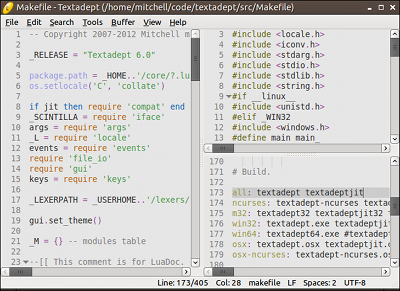
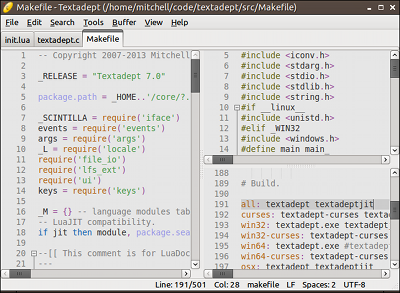
Added support for tabs.

Changed region(s): [[0.0, 0.0, 1.0, 0.9588], [0.39, 0.9278, 0.93, 0.9897], [0.93, 0.0, 0.96, 0.0309]]

diff --git a/src/textadept.c b/src/textadept.c
@@ -85,7 +85,7 @@ typedef GtkWidget Scintilla;
 static char *textadept_home;
 static Scintilla *focused_view, *dummy_view;
 #if GTK
-static GtkWidget *window, *menubar, *statusbar[2];
+static GtkWidget *window, *menubar, *tabbar, *statusbar[2];
 static GtkAccelGroup *accel;
 #if __APPLE__
 static GtkosxApplication *osxapp;
@@ -135,6 +135,7 @@ static lua_State *lua;
 static int quit;
 #endif
 static int initing, closing;
+static int show_tabs = TRUE, tab_sync;
 static int tVOID = 0, tINT = 1, tLENGTH = 2, /*tPOSITION = 3, tCOLOUR = 4,*/
            tBOOL = 5, tKEYMOD = 6, tSTRING = 7, tSTRINGRESULT = 8;
 static int lL_init(lua_State *, int, char **, int);
@@ -582,9 +583,7 @@ static int lce_focus(lua_State *L) {
   setCDKEntryValue(command_entry, command_text);
   char *clipboard = get_clipboard();
   GPasteBuffer = copyChar(clipboard); // set the CDK paste buffer
-  curs_set(1);
-  activateCDKEntry(command_entry, NULL);
-  curs_set(0);
+  curs_set(1), activateCDKEntry(command_entry, NULL), curs_set(0);
   // Set Scintilla clipboard with new CDK paste buffer if necessary.
   if (strcmp(clipboard, GPasteBuffer)) set_clipboard(GPasteBuffer);
   free(clipboard), free(GPasteBuffer), GPasteBuffer = NULL;
@@ -785,13 +784,30 @@ static void l_pushdoc(lua_State *L, sptr_t doc) {
 }
 
 /**
+ * Synchronizes the tabbar after switching between Scintilla views or documents.
+ */
+static void sync_tabbar() {
+#if GTK
+  lua_getfield(lua, LUA_REGISTRYINDEX, "ta_buffers");
+  l_pushdoc(lua, SS(focused_view, SCI_GETDOCPOINTER, 0, 0));
+  lua_gettable(lua, -2);
+  int i = lua_tointeger(lua, -1) - 1;
+  lua_pop(lua, 2); // buffers and index
+  GtkNotebook *tabs = GTK_NOTEBOOK(tabbar);
+  tab_sync = TRUE, gtk_notebook_set_current_page(tabs, i), tab_sync = FALSE;
+//#elif CURSES
+  // TODO: tabs
+#endif
+}
+
+/**
  * Change focus to the given Scintilla view.
  * Generates 'view_before_switch' and 'view_after_switch' events.
  * @param view The Scintilla view to focus.
  */
 static void goto_view(Scintilla *view) {
   if (!initing && !closing) lL_event(lua, "view_before_switch", -1);
-  l_setglobalview(lua, focused_view = view);
+  l_setglobalview(lua, focused_view = view), sync_tabbar();
   l_setglobaldoc(lua, SS(view, SCI_GETDOCPOINTER, 0, 0));
   if (!initing && !closing) lL_event(lua, "view_after_switch", -1);
 }
@@ -942,7 +958,10 @@ static int lui__index(lua_State *L) {
     lua_newtable(L);
     lua_pushinteger(L, width), lua_rawseti(L, -2, 1);
     lua_pushinteger(L, height), lua_rawseti(L, -2, 2);
-  } else lua_rawget(L, 1);
+  } else if (strcmp(key, "tabs") == 0)
+    lua_pushboolean(L, show_tabs);
+  else
+    lua_rawget(L, 1);
   return 1;
 }
 
@@ -1006,6 +1025,14 @@ static int lui__newindex(lua_State *L) {
                   "{ width, height } table expected");
     int w = l_rawgetiint(L, 3, 1), h = l_rawgetiint(L, 3, 2);
     if (w > 0 && h > 0) gtk_window_resize(GTK_WINDOW(window), w, h);
+#endif
+  } else if (strcmp(key, "tabs") == 0) {
+    show_tabs = lua_toboolean(L, 3);
+#if GTK
+    gtk_widget_set_visible(tabbar, show_tabs &&
+                           gtk_notebook_get_n_pages(GTK_NOTEBOOK(tabbar)) > 1);
+//#elif CURSES
+    // TODO: tabs
 #endif
   } else lua_rawset(L, 1);
   return 0;
@@ -1076,9 +1103,9 @@ static void lL_gotodoc(lua_State *L, Scintilla *view, int n, int relative) {
     lua_rawgeti(L, -1, (n > 0) ? n : lua_rawlen(L, -1));
   }
   sptr_t doc = l_todoc(L, -1);
-  SS(view, SCI_SETDOCPOINTER, 0, doc);
+  SS(view, SCI_SETDOCPOINTER, 0, doc), sync_tabbar();
   l_setglobaldoc(L, doc);
-  lua_pop(L, 2); // buffer table and buffers
+  lua_pop(L, 2); // buffer and buffers
 }
 
 /**
@@ -1109,7 +1136,16 @@ static void lL_removedoc(lua_State *L, sptr_t doc) {
       lua_pushvalue(L, -2), lua_rawseti(L, -5, lua_rawlen(L, -5) + 1);
       lua_pushvalue(L, -2), lua_settable(L, -5);
       lua_pushinteger(L, lua_rawlen(L, -3)), lua_settable(L, -4);
-    } else lua_pop(L, 1); // value
+    } else {
+#if GTK
+      // Remove the tab from the tabbar.
+      gtk_notebook_remove_page(GTK_NOTEBOOK(tabbar), i - 1);
+      gtk_widget_set_visible(tabbar, show_tabs && lua_rawlen(L, -2) > 2);
+//#elif CURSES
+      // TODO: tabs
+#endif
+      lua_pop(L, 1); // value
+    }
   }
   lua_pop(L, 1); // buffers
   lua_pushvalue(L, -1), lua_setfield(L, LUA_REGISTRYINDEX, "ta_buffers");
@@ -1304,8 +1340,21 @@ static int lbuf_property(lua_State *L) {
                            (!is_buffer || !newindex) ? 2 : 3);
   } else lua_pop(L, 2); // non-table, ta_properties
 
-  // If the key is a Scintilla constant, return its value.
-  if (!newindex) {
+  if (strcmp(lua_tostring(L, 2), "tab_label") == 0) {
+    // Return or update the buffer's tab label.
+    lua_getfield(L, 1, "tab_pointer");
+#if GTK
+    GtkNotebook *tabs = GTK_NOTEBOOK(tabbar);
+    GtkWidget *tab = (GtkWidget *)lua_touserdata(L, -1);
+    lua_pushstring(L, gtk_notebook_get_tab_label_text(tabs, tab));
+    if (newindex)
+      gtk_notebook_set_tab_label_text(tabs, tab, luaL_checkstring(L, 3));
+//#elif CURSES
+    // TODO: tabs
+#endif
+    return !newindex ? 1 : 0;
+  } else if (!newindex) {
+    // If the key is a Scintilla constant, return its value.
     lua_getfield(L, LUA_REGISTRYINDEX, "ta_constants");
     lua_pushvalue(L, 2), lua_gettable(L, -2);
     if (lua_isnumber(L, -1)) return 1;
@@ -1325,6 +1374,12 @@ static void lL_adddoc(lua_State *L, sptr_t doc) {
   lua_newtable(L);
   lua_pushlightuserdata(L, (sptr_t *)doc); // TODO: can this fail?
   lua_pushvalue(L, -1), lua_setfield(L, -3, "doc_pointer");
+#if GTK
+  GtkWidget *tab = gtk_vbox_new(FALSE, 0); // placeholder in GtkNotebook
+  lua_pushlightuserdata(L, tab), lua_setfield(L, -3, "tab_pointer");
+//#elif CURSES
+  // TODO: tabs
+#endif
   l_setcfunction(L, -2, "delete", lbuffer_delete);
   l_setcfunction(L, -2, "new", lbuffer_new);
   l_setcfunction(L, -2, "text_range", lbuffer_text_range);
@@ -1354,6 +1409,20 @@ static void new_buffer(sptr_t doc) {
     lL_adddoc(lua, doc);
     SS(focused_view, SCI_ADDREFDOCUMENT, 0, doc);
   }
+#if GTK
+  // Add a tab to the tabbar.
+  l_pushdoc(lua, SS(focused_view, SCI_GETDOCPOINTER, 0, 0));
+  lua_getfield(lua, -1, "tab_pointer");
+  GtkWidget *tab = (GtkWidget *)lua_touserdata(lua, -1);
+  tab_sync = TRUE;
+  int i = gtk_notebook_append_page(GTK_NOTEBOOK(tabbar), tab, NULL);
+  gtk_widget_show(tab), gtk_widget_set_visible(tabbar, show_tabs && i > 0);
+  gtk_notebook_set_current_page(GTK_NOTEBOOK(tabbar), i);
+  tab_sync = FALSE;
+  lua_pop(lua, 2); // buffer and tab_pointer
+//#elif CURSES
+  // TODO: tabs
+#endif
   l_setglobaldoc(lua, doc);
   if (!initing) lL_event(lua, "buffer_new", -1);
 }
@@ -1566,6 +1635,7 @@ static int lL_init(lua_State *L, int argc, char **argv, int reinit) {
 #endif
 #if CURSES
   lua_pushboolean(L, 1), lua_setglobal(L, "CURSES");
+  show_tabs = 0; // TODO: tabs
 #endif
   const char *charset = NULL;
 #if GTK
@@ -1758,6 +1828,19 @@ static void w_quit_osx(GtkosxApplication*_, void*__) {
   gtk_main_quit();
 }
 #endif
+
+/**
+ * Signal for switching buffer tabs.
+ * When triggered by the user (i.e. not synchronizing the tabbar), switches to
+ * the specified buffer.
+ * Generates 'buffer_before_switch' and 'buffer_after_switch' events.
+ */
+static void t_tabchange(GtkNotebook*_, void*__, int page_num, void*___) {
+  if (tab_sync) return;
+  lL_event(lua, "buffer_before_switch", -1);
+  lL_gotodoc(lua, focused_view, page_num + 1, FALSE);
+  lL_event(lua, "buffer_after_switch", -1);
+}
 #endif // if GTK
 
 /**
@@ -1916,7 +1999,7 @@ static void split_view(Scintilla *view, int vertical) {
   SS(view2, SCI_SETSEL, anchor, current_pos);
   int new_first_line = SS(view2, SCI_GETFIRSTVISIBLELINE, 0, 0);
   SS(view2, SCI_LINESCROLL, first_line - new_first_line, 0);
-#elif CURSES
+//#elif CURSES
   // TODO: split.
 #endif
 }
@@ -1963,7 +2046,7 @@ static int lview__newindex(lua_State *L) {
     int size = luaL_checkinteger(L, 3);
     if (size < 0) size = 0;
     if (GTK_IS_PANED(pane)) gtk_paned_set_position(GTK_PANED(pane), size);
-#elif CURSES
+//#elif CURSES
     // TODO: set size.
 #endif
   } else lua_rawset(L, 1);
@@ -2192,6 +2275,12 @@ static void new_window() {
   menubar = gtk_menu_bar_new();
   gtk_box_pack_start(GTK_BOX(vbox), menubar, FALSE, FALSE, 0);
 
+  tabbar = gtk_notebook_new();
+  signal(tabbar, "switch-page", t_tabchange);
+  gtk_notebook_set_scrollable(GTK_NOTEBOOK(tabbar), TRUE);
+  gtk_box_pack_start(GTK_BOX(vbox), tabbar, FALSE, FALSE, 0);
+  gtk_widget_set_can_focus(tabbar, FALSE);
+
   GtkWidget *hbox = gtk_hbox_new(FALSE, 0);
   gtk_box_pack_start(GTK_BOX(vbox), hbox, TRUE, TRUE, 0);
 
@@ -2231,9 +2320,8 @@ static void new_window() {
   gtk_box_pack_start(GTK_BOX(hboxs), statusbar[1], FALSE, FALSE, 0);
 
   gtk_widget_show_all(window);
-  gtk_widget_hide(menubar); // hide initially
-  gtk_widget_hide(findbox); // hide initially
-  gtk_widget_hide(command_entry); // hide initially
+  gtk_widget_hide(menubar), gtk_widget_hide(tabbar); // hide initially
+  gtk_widget_hide(findbox), gtk_widget_hide(command_entry); // hide initially
 
   dummy_view = scintilla_new();
 #elif CURSES

diff --git a/doc/04_WorkingWithFiles.md b/doc/04_WorkingWithFiles.md
@@ -2,14 +2,10 @@
 
 ## Buffers
 
-One of the first things notably absent when opening multiple files in Textadept
-is the lack of a tab bar showing the open files. This design decision allowed
-Textadept to support unlimited split views from the very beginning. Having a
-single tab bar for multiple views causes confusion and having one tab bar per
-view clutters the interface.
-
-Instead of having tabs, Textadept has the buffer browser. Press `Ctrl+B` (`⌘B`
-on Mac OSX | `M-B` or `M-S-B` in curses) to open it.
+Despite the fact that Textadept can display multiple buffers with a tab bar, the
+buffer browser is usually a faster way to switch between buffers or quickly
+assess which files are open. Press `Ctrl+B` (`⌘B` on Mac OSX | `M-B` or `M-S-B`
+in curses) to display this browser.
 
 ![Buffer Browser](images/bufferbrowser.png)
 

diff --git a/doc/03_UserInterface.md b/doc/03_UserInterface.md
@@ -20,6 +20,14 @@ key bindings.
 [key preferences]: 08_Preferences.html#Key.Bindings
 [complete list]: api/textadept.keys.html#Key.Bindings
 
+## Tab Bar
+
+The tab bar displays all of Textadept's open buffers, although it's only visible
+when two or more buffers are open. While only the GUI version supports tabs,
+Textadept's [buffer browser][] is always available and far more powerful.
+
+[buffer browser]: 04_WorkingWithFiles.html#Buffers
+
 ## Editor View
 
 Most of your time spent with Textadept is in the editor view. The GUI version

diff --git a/doc/08_Preferences.md b/doc/08_Preferences.md
@@ -37,6 +37,10 @@ your *~/.textadept/init.lua*:
     textadept.editing.TYPEOVER_CHARS = false
     textadept.editing.STRIP_TRAILING_SPACES = false
 
+To always hide the tab bar:
+
+    ui.tabs = false
+
 Now suppose you want to load all of Textadept's default modules except for the
 menu. You cannot do this after-the-fact from *~/.textadept/init.lua*. Instead
 you need Textadept to load your own module rather than the default one. Copy the
